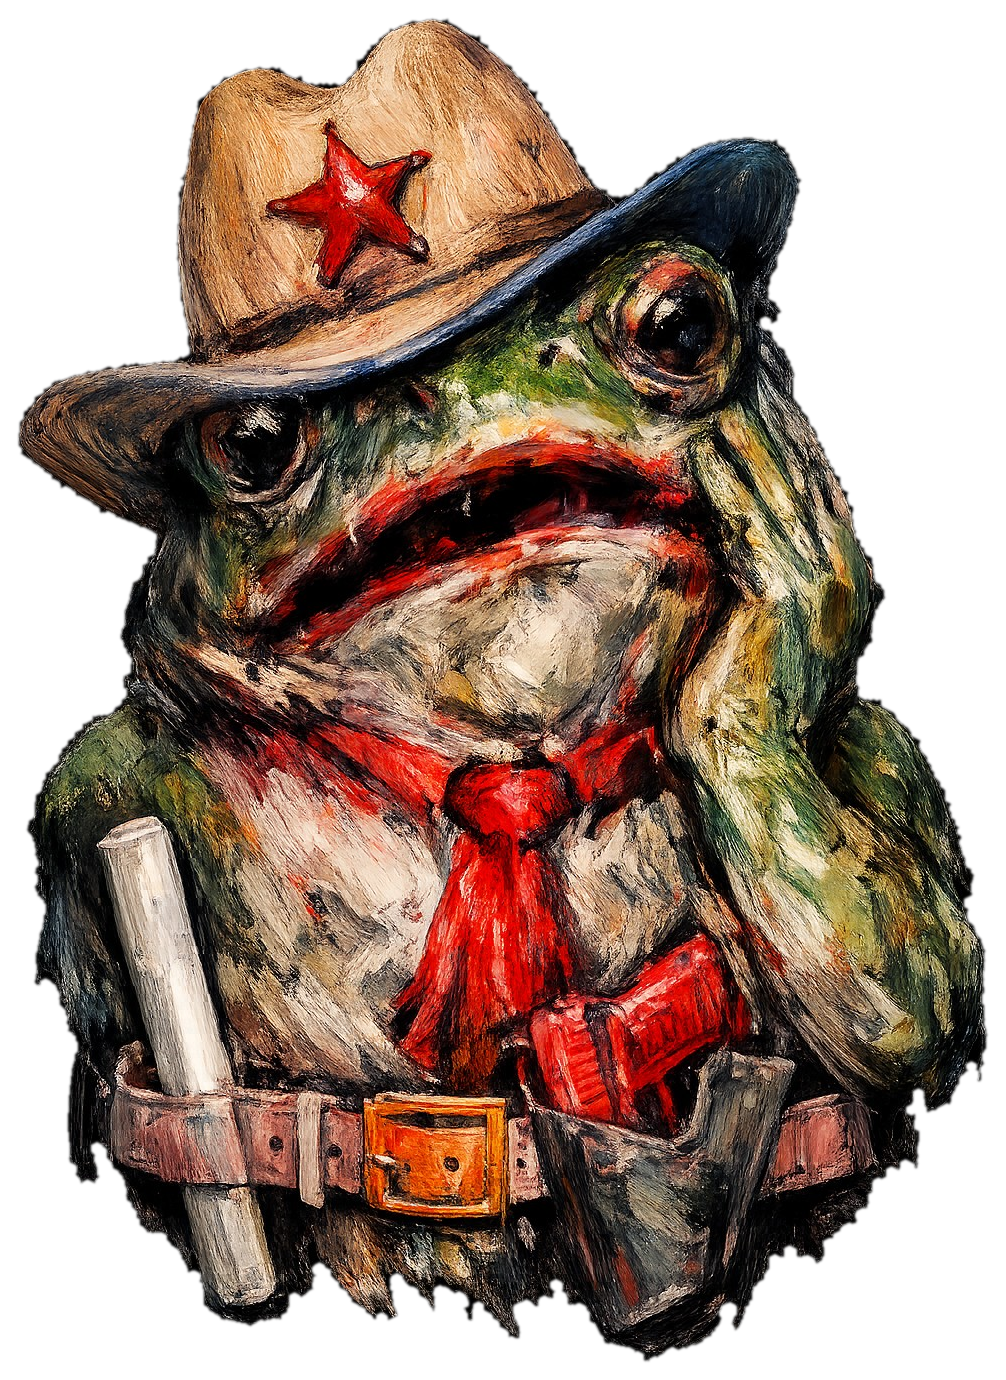
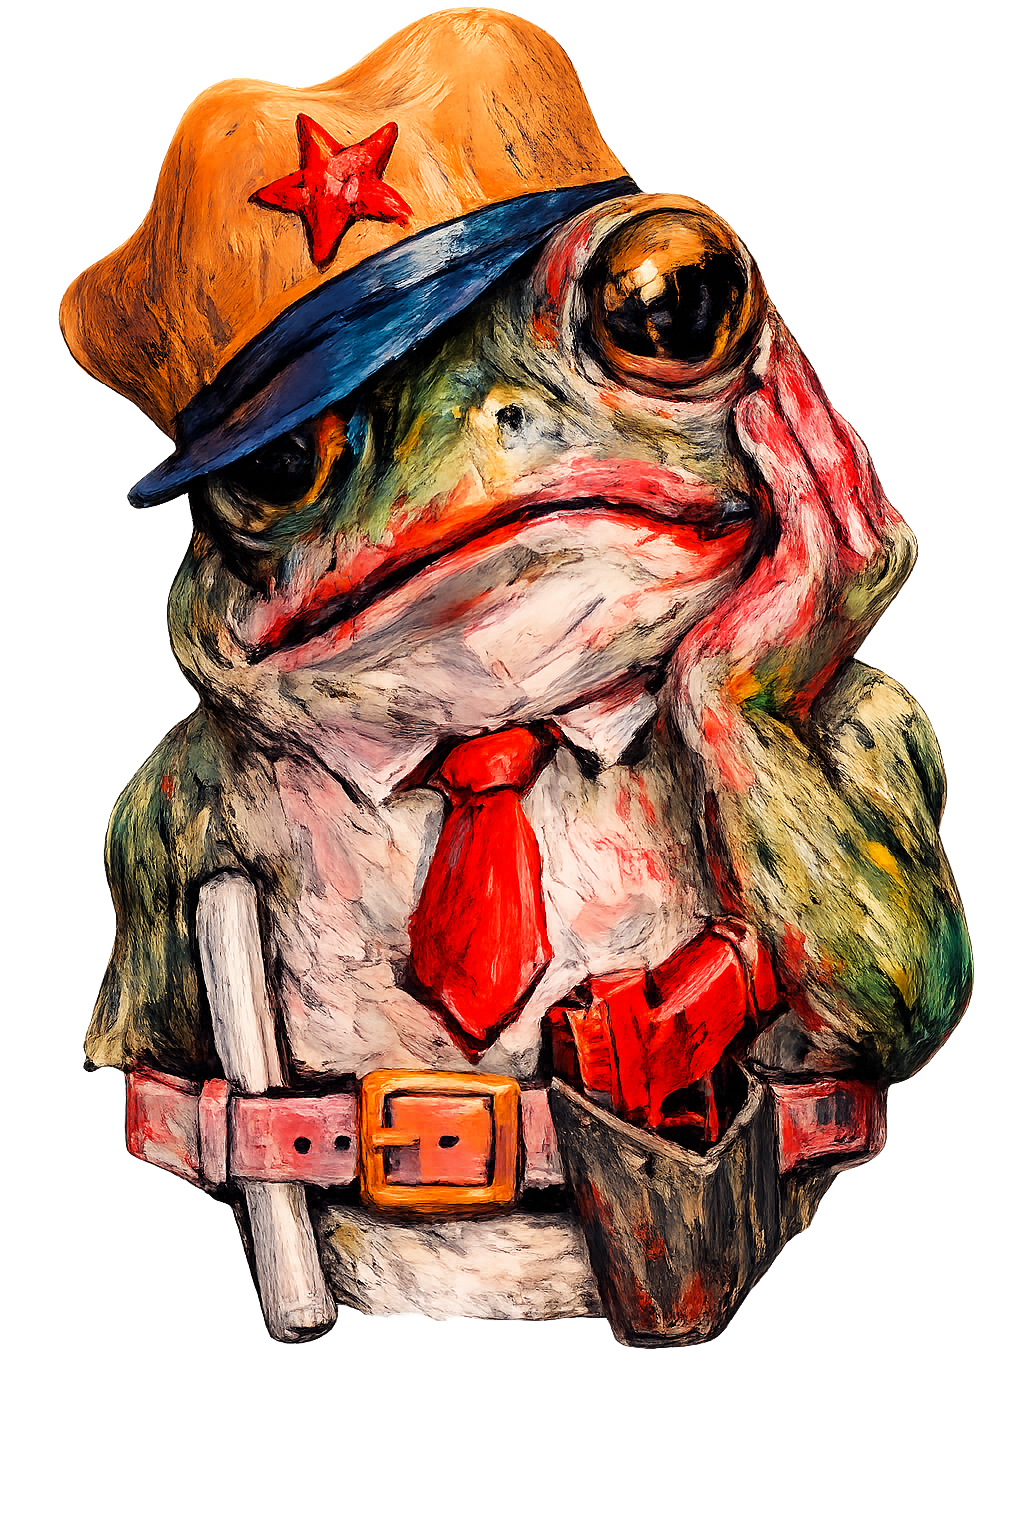
532

diff --git a/js/app.js b/js/app.js
@@ -7,8 +7,8 @@ import {
 import { configureAudio, unlockAudio, applyAudioSettings, switchAudio, updateMainEnvironment, playSfx, startPoliceSiren, stopPoliceSiren, vibrate, suspendAudio, resumeAudio, stopMealAudio, duckCurrentAmbient } from './audio.js';
 import { resolveAudioScene } from './audio-scene-map.js';
 import { japaneseHolidayName } from './japan-holidays.js';
-import { DAILY_GEM_PROFILES, dailyGemForDate } from './daily-gems.js?v=0.10.530';
-import { KAITENZUSHI_EMBEDDED_HTML } from './kaitenzushi-embedded.js?v=0.10.530';
+import { DAILY_GEM_PROFILES, dailyGemForDate } from './daily-gems.js?v=0.10.532';
+import { KAITENZUSHI_EMBEDDED_HTML } from './kaitenzushi-embedded.js?v=0.10.532';
 import {
   initializeFirebase, observeAuth, emailLogin, emailSignup, logout,
   needsEmailVerification, resendVerificationEmail, refreshAuthUser, requestPasswordReset, currentProviderKind,
@@ -376,7 +376,7 @@ function runEventEmergencySettlement(key, eventState) {
     case 'okachimachiTollEvent': {
       const rewardStages = ['jadeReward', 'paymentDemand', 'paymentNotice', 'farewell'];
       if (rewardStages.includes(stage) && !eventState.rewardGranted) {
-        changed = grantEmergencyRough(eventState, 'jade', '翡翠原石を手に入れました', 'カエル保安官から渡された翡翠原石を工房へ追加しました。') || changed;
+        changed = grantEmergencyRough(eventState, 'jade', '翡翠原石を手に入れました', 'キャベツ野郎から渡された翡翠原石を工房へ追加しました。') || changed;
       }
       if ((eventState.rewardGranted || rewardStages.includes(stage)) && !eventState.paymentApplied) {
         state.game.money = Math.max(0, Math.floor(Number(state.game.money) || 0) - OKACHIMACHI_TOLL_EVENT_COST);
@@ -7229,7 +7229,7 @@ function maybeStartOkachimachiTollEvent() {
   if (eventState.active) return resumeOkachimachiTollEvent();
   if (Math.floor(Number(state?.game?.money) || 0) < OKACHIMACHI_TOLL_EVENT_COST) return false;
 
-  // v0.10.530: 所持金条件を満たした御徒町への外部入場につき、ゲーム内1日1回だけ抽選する。
+  // v0.10.532: 所持金条件を満たした御徒町への外部入場につき、ゲーム内1日1回だけ抽選する。
   // その日に外れた場合、御徒町へ入り直しても再抽選しない。翌日に再び抽選可能になる。
   const currentDay = Math.max(1, Math.floor(Number(state?.game?.day) || 1));
   if (eventState.lastAttemptDay === currentDay) return false;
@@ -7255,7 +7255,7 @@ function grantOkachimachiTollJade(eventState = okachimachiTollEventState()) {
   if (eventState.rewardGranted) return false;
   state.inventory.rough.jade = Math.max(0, Math.floor(Number(state.inventory.rough?.jade) || 0)) + 1;
   eventState.rewardGranted = true;
-  addNotification('翡翠原石を手に入れました', 'カエル保安官から渡された翡翠原石が、工房の原石へ追加されました。', 'special');
+  addNotification('翡翠原石を手に入れました', 'キャベツ野郎から渡された翡翠原石が、工房の原石へ追加されました。', 'special');
   return true;
 }
 
@@ -7263,7 +7263,7 @@ function applyOkachimachiTollPayment(eventState = okachimachiTollEventState()) {
   if (eventState.paymentApplied) return false;
   state.game.money = Math.max(0, Math.floor(Number(state.game.money) || 0) - OKACHIMACHI_TOLL_EVENT_COST);
   addFinance('御徒町の通行費', 0, OKACHIMACHI_TOLL_EVENT_COST);
-  addNotification('通行費を支払いました', `${yen(OKACHIMACHI_TOLL_EVENT_COST)}をカエル保安官へ支払いました。`, 'special');
+  addNotification('通行費を支払いました', `${yen(OKACHIMACHI_TOLL_EVENT_COST)}をキャベツ野郎へ支払いました。`, 'special');
   startMoneyFeedback(-OKACHIMACHI_TOLL_EVENT_COST, 1500);
   eventState.paymentApplied = true;
   return true;
@@ -10147,7 +10147,7 @@ function renderOkachimachiTollEvent() {
           ? `<div class="okachimachi-toll-jade-reveal" role="status"><span class="special-item-glow kappa-jade-glow" aria-hidden="true"></span><img src="./assets/images/gems/jade.png?v=${VERSION}" alt="翡翠原石" draggable="false"><strong>翡翠原石を受け取った</strong></div>`
           : `<div class="visit-character-area okachimachi-toll-character-area" aria-hidden="true"><img class="visit-character okachimachi-toll-character" src="./assets/images/events/okachimachi-toll-frog.png?v=${VERSION}" alt="" draggable="false"></div>`}
         <button type="button" class="event-dialogue-card visit-event-dialogue okachimachi-toll-dialogue glass-panel" data-action="okachimachi-toll-event-next">
-          <small>${isPaymentNotice ? '支払い' : 'カエル保安官'}</small>
+          <small>${isPaymentNotice ? '支払い' : 'キャベツ野郎'}</small>
           <strong>${dialogue}</strong>
           ${isPaymentNotice ? `<em>－${yen(OKACHIMACHI_TOLL_EVENT_COST)}</em>` : ''}
           <span>タップして進む</span>

diff --git a/sw.js b/sw.js
@@ -1,9 +1,9 @@
-const VERSION = '0.10.530';
+const VERSION = '0.10.532';
 const APP_CACHE = `jewelrygame-app-v${VERSION}`;
 const RUNTIME_CACHE = `jewelrygame-runtime-v${VERSION}`;
 const APP_SHELL = [
   './', './index.html', './game.html', './auth.html', './hosting-origin-guard.js', './viewport-shell.css', './viewport-shell.js', './styles.css',
-  './manifest.webmanifest', './js/app.js', './js/audio.js', './js/audio-scene-map.js', './js/game-data.js', './js/kaitenzushi-embedded.js?v=0.10.530', './js/daily-gems.js?v=0.10.530', './js/japan-holidays.js', './js/firebase-config.js', './js/google-auth-bridge.js',
+  './manifest.webmanifest', './js/app.js', './js/audio.js', './js/audio-scene-map.js', './js/game-data.js', './js/kaitenzushi-embedded.js?v=0.10.532', './js/daily-gems.js?v=0.10.532', './js/japan-holidays.js', './js/firebase-config.js', './js/google-auth-bridge.js',
   './js/security-config.js', './js/firebase-service.js', './data/metals.json', './data/jewelry_okachimachi_quiz_200_game_format.json',
   './data/daily-gems-365.json', './data/cinema-event-videos.json', './assets/minigames/kaitenzushi/game/index.html', './assets/images/main.webp', './assets/images/main-portrait.webp', './assets/images/main-menu.webp', './assets/images/main-menu-portrait.webp', './assets/images/today-gem.webp',
   './assets/images/tools/placeholder.svg', './assets/images/tools/jewelry-bench.png', './assets/images/tools/loupe.png', './assets/images/tools/gem-polishing-machine.png', './assets/images/tools/diamond-polishing-lap.png', './assets/images/tools/piercing-saw.png', './assets/images/tools/nipper.png', './assets/images/tools/electronic-scale.png', './assets/images/tools/wood-block.png', './assets/images/tools/dividers.png', './assets/images/tools/milgrain-tool.png', './assets/images/tools/rolling-mill.png', './assets/images/tools/file.png', './assets/images/tools/pliers.png', './assets/images/tools/torch.png', './assets/images/tools/hammer.png', './assets/images/tools/magnifier.png', './assets/images/tools/bench-peg.png', './assets/images/tools/graver.png', './assets/images/tools/engraving-block.png', './assets/images/tools/stamps.png', './assets/images/tools/rotary-tool.png', './assets/images/tools/buffer.png', './assets/images/tools/ultrasonic-cleaner.png', './assets/images/events/indian-restaurant-manager.png', './assets/images/robbery-newspaper.webp', './assets/images/equipment/basic-pickaxe.png', './assets/images/customers/customer-placeholder.svg',
@@ -17,7 +17,7 @@ const APP_SHELL = [
 const CORE_SHELL = [
   './', './index.html', './game.html', './hosting-origin-guard.js', './viewport-shell.css', './viewport-shell.js', './styles.css',
   './manifest.webmanifest', './js/app.js', './js/audio.js', './js/audio-scene-map.js', './js/game-data.js',
-  './js/kaitenzushi-embedded.js?v=0.10.530', './js/daily-gems.js?v=0.10.530', './js/japan-holidays.js', './js/firebase-config.js',
+  './js/kaitenzushi-embedded.js?v=0.10.532', './js/daily-gems.js?v=0.10.532', './js/japan-holidays.js', './js/firebase-config.js',
   './js/google-auth-bridge.js', './js/security-config.js', './js/firebase-service.js',
 ];
 

diff --git a/index.html b/index.html
@@ -4,7 +4,7 @@
   <meta charset="utf-8">
   <meta name="viewport" content="width=device-width,initial-scale=1,viewport-fit=cover,user-scalable=no">
   <meta http-equiv="Content-Security-Policy" content="default-src 'self'; base-uri 'self'; object-src 'none'; script-src 'self' https://www.gstatic.com https://apis.google.com https://www.google.com https://www.recaptcha.net; style-src 'self' 'unsafe-inline'; img-src 'self' data: blob: https://www.gstatic.com https://*.googleusercontent.com; media-src 'self' blob:; font-src 'self' data:; connect-src 'self' https://*.googleapis.com https://*.firebaseio.com wss://*.firebaseio.com https://*.firebaseapp.com https://accounts.google.com https://*.google.com https://www.recaptcha.net https://*.gstatic.com; frame-src 'self' https://*.firebaseapp.com https://accounts.google.com https://www.google.com https://www.recaptcha.net; worker-src 'self' blob:; child-src 'self' blob:; manifest-src 'self'; form-action 'self' https://accounts.google.com; upgrade-insecure-requests">
-  <script src="./hosting-origin-guard.js?v=0.10.530"></script>
+  <script src="./hosting-origin-guard.js?v=0.10.532"></script>
   <meta name="referrer" content="strict-origin-when-cross-origin">
   <meta name="theme-color" content="#130e09">
   <meta name="mobile-web-app-capable" content="yes">
@@ -15,20 +15,20 @@
   <link rel="manifest" href="./manifest.webmanifest">
   <link rel="icon" href="./assets/icons/favicon.png">
   <link rel="apple-touch-icon" href="./assets/icons/apple-touch-icon.png">
-  <link rel="stylesheet" href="./viewport-shell.css?v=0.10.530">
+  <link rel="stylesheet" href="./viewport-shell.css?v=0.10.532">
 </head>
 <body>
   <main id="viewport-safe-area" aria-label="JEWELRY×JEWELRY">
     <div id="device-stage">
       <iframe
         id="game-frame"
-        src="./game.html?v=0.10.530"
+        src="./game.html?v=0.10.532"
         title="JEWELRY×JEWELRY"
         allow="autoplay; clipboard-write; identity-credentials-get"
         referrerpolicy="strict-origin-when-cross-origin"
       ></iframe>
     </div>
   </main>
-  <script src="./viewport-shell.js?v=0.10.530"></script>
+  <script src="./viewport-shell.js?v=0.10.532"></script>
 </body>
 </html>

diff --git a/game.html b/game.html
@@ -4,7 +4,7 @@
   <meta charset="utf-8">
   <meta name="viewport" content="width=device-width,initial-scale=1,viewport-fit=cover,user-scalable=no">
   <meta http-equiv="Content-Security-Policy" content="default-src 'self'; base-uri 'self'; object-src 'none'; script-src 'self' 'nonce-jxj-kaitenzushi' https://www.gstatic.com https://apis.google.com https://www.google.com https://www.recaptcha.net; style-src 'self' 'unsafe-inline'; img-src 'self' data: blob: https://www.gstatic.com https://*.googleusercontent.com; media-src 'self' blob:; font-src 'self' data:; connect-src 'self' https://*.googleapis.com https://*.firebaseio.com wss://*.firebaseio.com https://*.firebaseapp.com https://accounts.google.com https://*.google.com https://www.recaptcha.net https://*.gstatic.com; frame-src 'self' https://*.firebaseapp.com https://accounts.google.com https://www.google.com https://www.recaptcha.net; worker-src 'self' blob:; child-src 'self' blob:; manifest-src 'self'; form-action 'self' https://accounts.google.com; upgrade-insecure-requests">
-  <script src="./hosting-origin-guard.js?v=0.10.530"></script>
+  <script src="./hosting-origin-guard.js?v=0.10.532"></script>
   <meta name="referrer" content="strict-origin-when-cross-origin">
   <meta name="theme-color" content="#130e09">
   <meta name="mobile-web-app-capable" content="yes">
@@ -15,7 +15,7 @@
   <link rel="manifest" href="./manifest.webmanifest">
   <link rel="icon" href="./assets/icons/favicon.png">
   <link rel="apple-touch-icon" href="./assets/icons/apple-touch-icon.png">
-  <link rel="stylesheet" href="./styles.css?v=0.10.530">
+  <link rel="stylesheet" href="./styles.css?v=0.10.532">
 </head>
 <body>
   <div id="background-layer" aria-hidden="true"></div>
@@ -25,6 +25,6 @@
   <div id="modal-layer" class="hidden"></div>
   <div id="sleep-curtain" aria-hidden="true"></div>
   <div id="morning-brief" aria-live="polite"></div>
-  <script type="module" src="./js/app.js?v=0.10.530"></script>
+  <script type="module" src="./js/app.js?v=0.10.532"></script>
 </body>
 </html>

diff --git a/js/game-data.js b/js/game-data.js
@@ -1,4 +1,4 @@
-export const VERSION = '0.10.530';
+export const VERSION = '0.10.532';
 export const SAVE_SCHEMA_VERSION = 1;
 export const DEFAULT_BIRTHDAY = '04-01';
 export const SAVE_KEY = 'jewelrygame-clean-v0.4.0';
@@ -5328,7 +5328,7 @@ export function migrateState(saved) {
   const savedOkachimachiTollEvent = isRecord(state.events.okachimachiTollEvent) ? state.events.okachimachiTollEvent : {};
   const validOkachimachiTollStages = ['idle', 'intro1', 'intro2', 'intro3', 'jadeReward', 'paymentDemand', 'paymentNotice', 'farewell', 'completed'];
   state.events.okachimachiTollEvent = {
-    // v0.10.530: 1日の抽選は1回だけ。旧保存データは発生日を抽選日として引き継ぐ。
+    // v0.10.532: 1日の抽選は1回だけ。旧保存データは発生日を抽選日として引き継ぐ。
     lastAttemptDay: Math.max(0, Math.floor(Number(savedOkachimachiTollEvent.lastAttemptDay ?? savedOkachimachiTollEvent.lastTriggeredDay) || 0)),
     lastTriggeredDay: Math.max(0, Math.floor(Number(savedOkachimachiTollEvent.lastTriggeredDay) || 0)),
     totalTriggered: Math.max(0, Math.floor(Number(savedOkachimachiTollEvent.totalTriggered) || 0)),

diff --git a/hosting-origin-guard.js b/hosting-origin-guard.js
@@ -1,6 +1,6 @@
 (() => {
   'use strict';
-  // v0.10.530: Firebase Hosting の公開確認前に GitHub Pages から転送しない。
+  // v0.10.532: Firebase Hosting の公開確認前に GitHub Pages から転送しない。
   // このファイル名は、旧キャッシュの index.html / game.html が読み込んでも
   // 転送が発生しないよう互換目的で残している。
 })();

diff --git a/CHANGELOG.md b/CHANGELOG.md
@@ -1,3 +1,16 @@
+# v0.10.532
+
+- 御徒町の通行費イベントキャラクター画像を、最新のユーザー指定画像へ差し替え。
+- 新しい画像を輪郭でトリミングし、背景不要の透明PNGとしてイベントアセットへ反映。
+- 表示名「キャベツ野郎」とイベント仕様はそのまま維持。
+- バージョンを0.10.532へ更新し、Service Workerのキャッシュ世代を更新。
+
+# v0.10.532
+
+- 御徒町の通行費イベントのキャラクター画像を、ユーザー提供の新しい画像へ差し替え。
+- イベント内の表示名・通知文の呼称を「カエル保安官」から「キャベツ野郎」へ変更。
+- バージョンを0.10.532へ更新し、Service Workerのキャッシュ世代を更新。
+
 # v0.10.530
 
 - GitHub Pagesから未公開のFirebase Hostingへ自動転送していた処理を停止。
